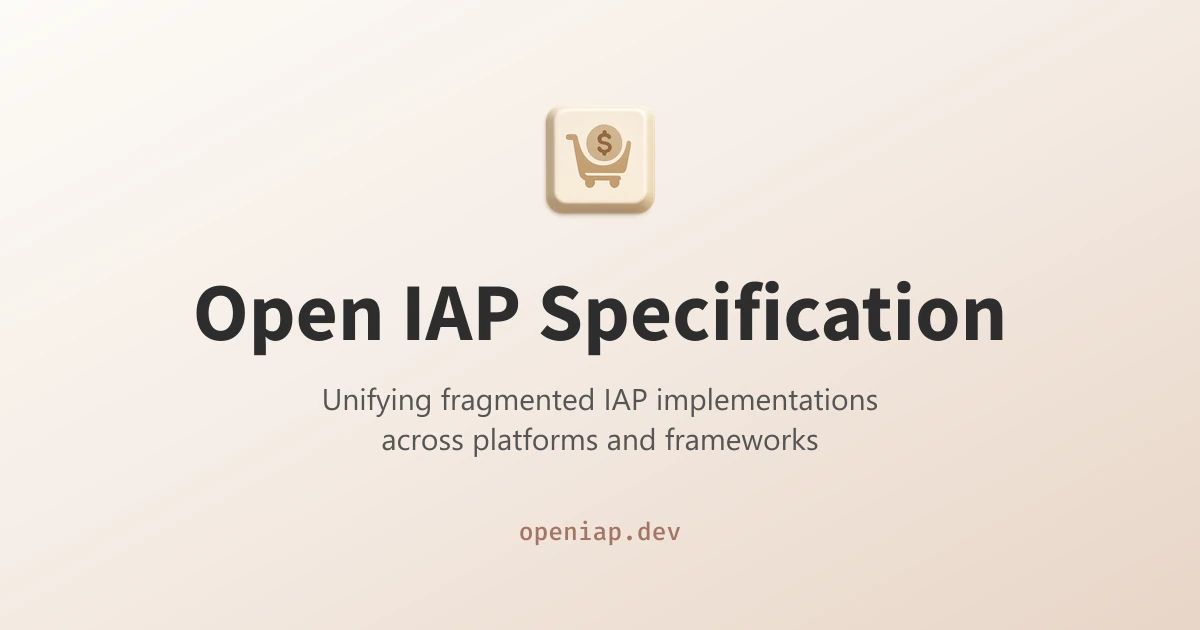
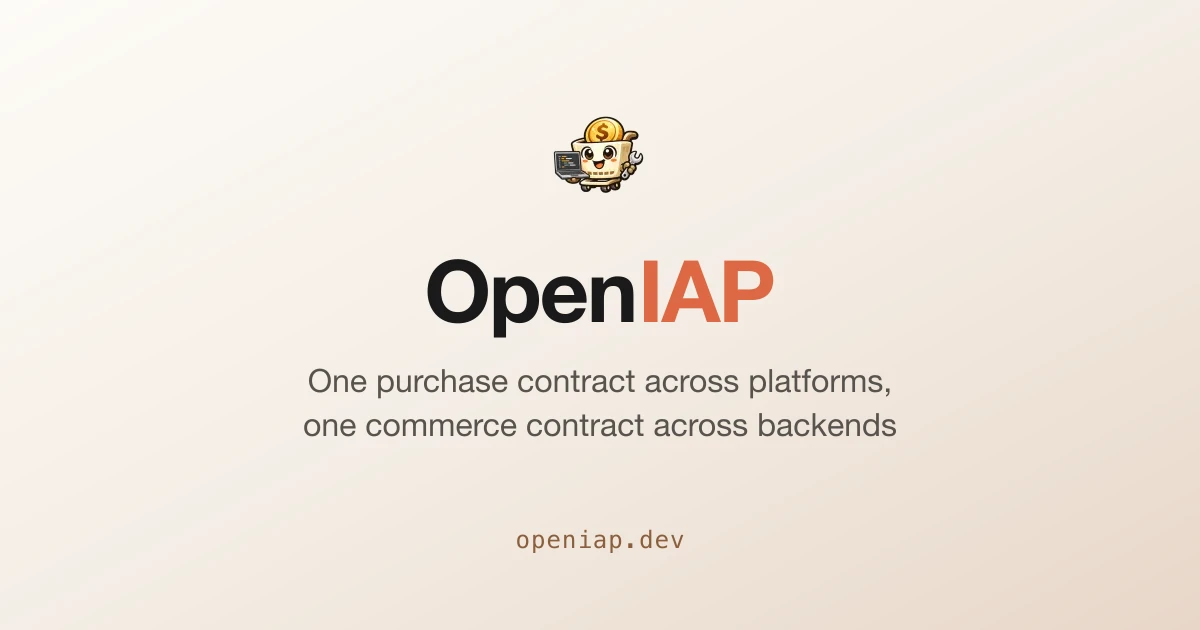
docs(agents): document Muse as a direct AGENTS.md consumer
Also stop the site calling itself a specification. OpenIAP governs two
independently versioned protocols now, and the body copy already says so — the
hero reads "The open IAP standard" and a section heading reads "One contract,
three surfaces". Only the metadata still said "specification", which is exactly
what a link preview shows, so a shared link described a thing that no longer
exists.

The page title becomes "Open protocols for in-app purchases", and the JSON-LD
organization description names both halves: the client contract every SDK
generates from, and the server-side commerce contract for verification and
entitlements.

The card image said it too, in pixels. It existed only as a binary, so the
wording could not be corrected — which is the reason it outlived the rename.
It now has a generator: edit the copy at the top of the script and re-run it.
The rebuild also picks up the current brand mark; the old card still carried a
cart icon that `logo.webp`, the favicons and the JSON-LD logo had all moved on
from.

The card sets the name as the hero does — one word, IAP in the accent colour.
Split into "Open IAP" it stops reading as a name at all. Below it goes the
two-contract line rather than the page title, because SEO.tsx composes og:title
as "<title> | OpenIAP", so every card already carries the title as its caption
and the image would only be repeating it.

Changed region(s): [[0.1542, 0.3921, 0.8325, 0.7238], [0.4317, 0.181, 0.555, 0.3619], [0.4317, 0.8143, 0.5858, 0.8746]]

diff --git a/packages/docs/src/pages/home.tsx b/packages/docs/src/pages/home.tsx
@@ -71,7 +71,7 @@ function Home() {
   return (
     <div className="home">
       <SEO
-        title="Unified In-App Purchase Specification"
+        title="Open protocols for in-app purchases"
         description="OpenIAP standardizes in-app purchases across iOS, Android, Expo, React Native, Flutter, Kotlin Multiplatform, .NET MAUI, and Godot. One API, every platform. StoreKit 2, Google Play Billing, Vision Pro, Horizon OS, Fire OS, and Vega OS."
         path="/"
         keywords="in-app purchase, IAP, StoreKit 2, Google Play Billing, Expo IAP, React Native IAP, Flutter IAP, Kotlin Multiplatform, .NET MAUI, Amazon Fire OS, Vega OS, cross-platform payments, mobile monetization"

diff --git a/packages/docs/index.html b/packages/docs/index.html
@@ -32,7 +32,7 @@
         "@type": "WebSite",
         "name": "OpenIAP",
         "url": "https://openiap.dev",
-        "description": "OpenIAP is a unified specification for in-app purchases across platforms, frameworks, and emerging technologies.",
+        "description": "OpenIAP is a pair of open protocols for in-app purchases: a client contract every SDK generates from, and a server-side commerce contract for verification and entitlements.",
         "inLanguage": "en",
         "author": {
           "@type": "Organization",

diff --git a/scripts/agent/compile-context.ts b/scripts/agent/compile-context.ts
@@ -1361,7 +1361,7 @@ ${commerceProtocolSpec}
     chalk.gray(`  ${path.relative(CONFIG.projectRoot, outputPath)}\n`),
   );
   console.log(chalk.white("Project instruction discovery:"));
-  console.log(chalk.gray("  AGENTS.md (Codex and Grok)"));
+  console.log(chalk.gray("  AGENTS.md (Codex, Grok, and Muse)"));
   console.log(chalk.gray("  CLAUDE.md -> AGENTS.md"));
   console.log(chalk.gray("  GEMINI.md -> AGENTS.md\n"));
 }

diff --git a/AGENTS.md b/AGENTS.md
@@ -252,8 +252,8 @@ bun run compile
 
 ## Shared Agent Configuration
 
-`AGENTS.md` is the root project instruction SSOT. Codex and Grok read it
-directly; `CLAUDE.md` and `GEMINI.md` are compatibility symlinks to the same
+`AGENTS.md` is the root project instruction SSOT. Codex, Grok, and Muse read
+it directly; `CLAUDE.md` and `GEMINI.md` are compatibility symlinks to the same
 file. Every framework library follows the same pattern with a local canonical
 `AGENTS.md`. The `.claude/commands/`, `.claude/skills/`, `.codex/skills/`, and
 `.cursor/rules/` files remain thin tool-discovery adapters where their host
@@ -296,6 +296,18 @@ Grok Build reads the repository's `AGENTS.md` hierarchy directly and supports
 the Claude Code command, skill, plugin, and marketplace layout. Do not add a
 parallel `GROK.md`; keep shared rules in `AGENTS.md` and tool-specific adapters
 thin. See the [xAI skills and plugins documentation](https://docs.x.ai/build/features/skills-plugins-marketplaces).
+
+## Muse Compatibility
+
+Muse reads the repository's `AGENTS.md` hierarchy directly (`muse init`
+scaffolds `AGENTS.md` as the project-rules file) and auto-discovers
+`.codex/skills/*/SKILL.md` as project skills — verify with
+`muse skills list --source project`; no `muse skills import` step is needed.
+Do not add a parallel `MUSE.md` or a `.muse/skills/` mirror. Keep the
+canonical `.codex/skills/` bodies agent-neutral so Codex, Muse, and the
+Claude adapters read the same text; where a skill names a Codex-only tool
+(Chrome extension, Codex fallback reviewer), Muse reads it as the
+host-surface equivalent, or stops and asks the maintainer when none exists.
 
 ## Claude Code Compatibility
 

diff --git a/.codex/skills/openiap-workflows/SKILL.md b/.codex/skills/openiap-workflows/SKILL.md
@@ -5,7 +5,7 @@ description: Use for OpenIAP monorepo work that should follow the repository's s
 
 # OpenIAP Workflows
 
-Use this skill when the user asks Codex to perform an OpenIAP repo workflow that
+Use this skill when the user asks the agent to perform an OpenIAP repo workflow that
 previously lived under `.claude/commands`, such as reviewing a PR, resolving an
 issue, auditing code, compiling knowledge, running device-backed E2E regression,
 verifying the monorepo, or committing and opening a PR.
@@ -13,8 +13,8 @@ verifying the monorepo, or committing and opening a PR.
 ## Source Of Truth
 
 Before changing code, read the root `AGENTS.md`; `CLAUDE.md` and `GEMINI.md`
-are symlinks to it in this repo, while Grok and Codex consume `AGENTS.md`
-directly. Then read the relevant detailed files:
+are symlinks to it in this repo, while Grok, Codex, and Muse consume
+`AGENTS.md` directly. Then read the relevant detailed files:
 
 - Package and library rules: `knowledge/internal/*.md`
 - Package conventions: `packages/*/CONVENTION.md`
@@ -26,7 +26,7 @@ specific package or workflow.
 
 ## Command Mapping
 
-Codex does not need Claude slash-command syntax. If the user says any of these
+You do not need Claude slash-command syntax. If the user says any of these
 natural-language requests, execute the matching workflow:
 
 - Review PR comments, fix review feedback, or "review-pr": read

diff --git a/.codex/skills/review-self/SKILL.md b/.codex/skills/review-self/SKILL.md
@@ -1,6 +1,6 @@
 ---
 name: review-self
-description: Independently review and simplify Codex's current implementation, working-tree changes, or pull request; enforce KISS and repository SSOT rules, fix actionable in-scope gaps, rerun relevant verification, and recheck at the user-requested interval (five minutes by default) until stable or genuinely blocked. Use when the user says "review-self", asks Codex to review its own changes, requests a self-review loop, or wants current work monitored for new issues after implementation.
+description: Independently review and simplify the agent's current implementation, working-tree changes, or pull request; enforce KISS and repository SSOT rules, fix actionable in-scope gaps, rerun relevant verification, and recheck at the user-requested interval (five minutes by default) until stable or genuinely blocked. Use when the user says "review-self", asks the agent to review the current changes, requests a self-review loop, or wants current work monitored for new issues after implementation.
 ---
 
 # Review Self

diff --git a/knowledge/README.md b/knowledge/README.md
@@ -88,7 +88,7 @@ cd scripts/agent
 bun run compile:ai
 
 # Repository-aware assistants discover the root instruction files:
-# AGENTS.md (Codex and Grok), CLAUDE.md, and GEMINI.md.
+# AGENTS.md (Codex, Grok, and Muse), CLAUDE.md, and GEMINI.md.
 # CLAUDE.md and GEMINI.md are symlinks to the AGENTS.md SSOT.
 ```
 
@@ -118,8 +118,8 @@ bun run benchmark --prompt "Add iOS subscription validation"
 
 1. **Define Task**: Write the feature request
 2. **Run Both**:
-   - Any repository-aware assistant from the repository root. Codex and Grok
-     discover `AGENTS.md`; Claude Code and Gemini follow the compatibility
+   - Any repository-aware assistant from the repository root. Codex, Grok, and
+     Muse discover `AGENTS.md`; Claude Code and Gemini follow the compatibility
      symlinks to the same SSOT.
    - Local Agent: `bun run benchmark --prompt "..."`
 3. **Compare**: Check `_generated/` against the selected assistant's output

diff --git a/scripts/agent/README.md b/scripts/agent/README.md
@@ -1,8 +1,8 @@
 # OpenIAP Agent Knowledge: One Shared Brain
 
 OpenIAP keeps one knowledge base and one compiled context for Codex, Claude
-Code, Grok, Gemini, and the local RAG agent. Tool-specific files are thin
-discovery adapters, not copies of project policy.
+Code, Grok, Gemini, Muse, and the local RAG agent. Tool-specific files are
+thin discovery adapters, not copies of project policy.
 
 ## Architecture Overview
 
@@ -132,7 +132,7 @@ bun run benchmark --prompt "Add a function to validate iOS subscription status"
 **Step 2: Run an AI Assistant**
 
 ```bash
-# Start the assistant from the repository root. Codex and Grok discover
+# Start the assistant from the repository root. Codex, Grok, and Muse discover
 # AGENTS.md; Claude Code and Gemini use the CLAUDE.md and GEMINI.md symlinks.
 cd ../..
 
